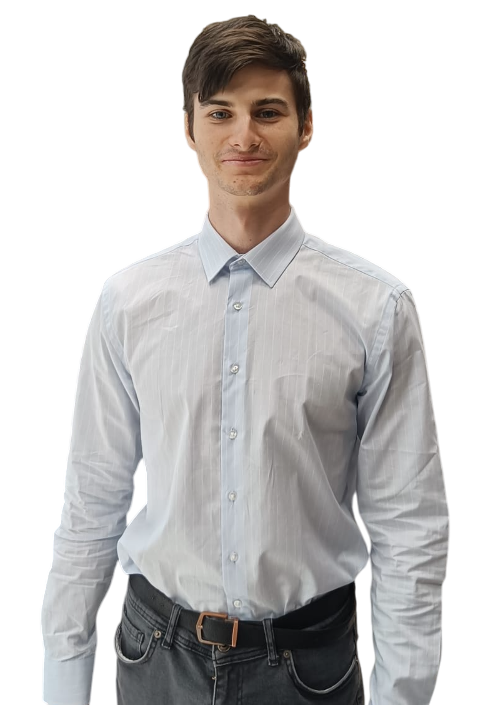
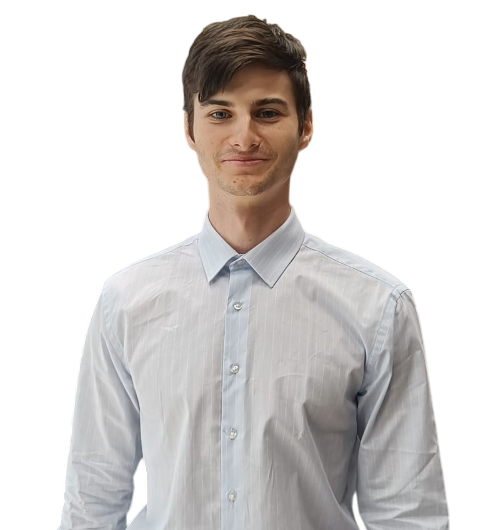
added img

diff --git a/src/App.jsx b/src/App.jsx
@@ -1,29 +1,15 @@
 import { useState } from 'react'
 import './App.css'
 import Navbar from'./components/Navbar'
-
+import AboutMe from './components/AboutMe'
 function App() {
   const [count, setCount] = useState(0)
 
   return (
-    <div>
+    <>
       <Navbar />
-      <h1>Portfolio Alexandru Serban Nicolae</h1>
-      <div className="card">
-        <button onClick={() => setCount((count) => count + 1)}>
-          count is {count}
-        </button>
-      </div>
-    </div>
-    // <>
-    //   <h1>Portfolio Alexandru Serban Nicolae</h1>
-    //   <div className="card">
-    //     <button onClick={() => setCount((count) => count + 1)}>
-    //       count is {count}
-    //     </button>
-    //   </div>
-    //   <div><a className="resume" href={pdf} target="_blank">Download Resume</a></div>
-    // </>
+      <AboutMe />
+    </>
   )
 }
 

diff --git a/src/components/AboutMe.jsx b/src/components/AboutMe.jsx
@@ -1,0 +1,10 @@
+import React from "react";
+import styles from "../components/AboutMe.module.css"
+
+export default function AboutMe() {
+    return (
+        <section className={styles.sectionAbout} id="about">
+        <img className={styles.profileImg} src="src\assets\ProfilePicture.png"></img>
+        </section>
+    )
+}

diff --git a/src/components/AboutMe.module.css b/src/components/AboutMe.module.css
@@ -1,0 +1,12 @@
+.sectionAbout{
+    display: flex;
+    width: 100%;
+    justify-content: right;
+}
+.profileImg{
+    display:flex;
+    border-radius: 100%;
+    border: 10px;
+    border-color: white;
+    
+}

diff --git a/src/App.css b/src/App.css
@@ -1,8 +1,8 @@
 #root {
-  max-width: 150%;
-  margin: 0 auto;
-  padding: 2rem;
+  width: 100%;
   text-align: center;
+  justify-items: center;
+  display: flex;
 }
 
 .card {
